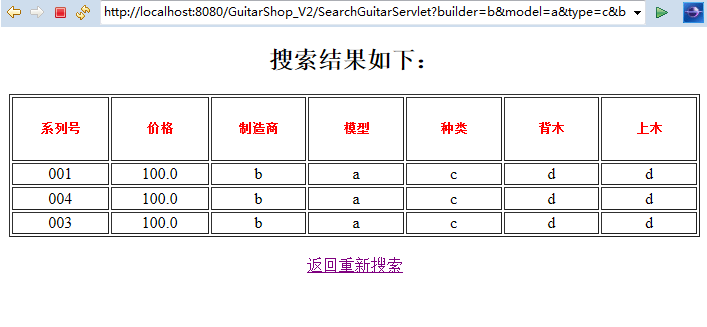
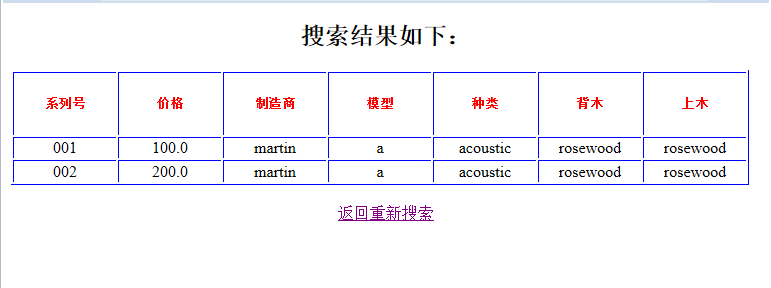
check

diff --git a/GuitarShop_V2/src/com/guitarshop_v2/test/SystemTest.java b/GuitarShop_V2/src/com/guitarshop_v2/test/SystemTest.java
@@ -37,7 +37,7 @@ public class SystemTest {
 		inventory.setGuitars(guitars);
 		Guitar tg = new Guitar();
 		GuitarSpec guitarSpec = new GuitarSpec();
-		guitarSpec.setType(type.b);
+		guitarSpec.setType(type.acoustic);
 		tg.setGuitarSpec(guitarSpec);
 		inventory.FindGuitars(tg);
 		System.out.print(inventory.FindGuitars(tg).size());

diff --git a/GuitarShop_V2/src/com/guitarshop_v2/model/builder.java b/GuitarShop_V2/src/com/guitarshop_v2/model/builder.java
@@ -1,6 +1,6 @@
 package com.guitarshop_v2.model;
 
 public enum builder {
-	a, b, c, d;
+	martin, lewis, james, paul;
 
 }

diff --git a/GuitarShop_V2/src/com/guitarshop_v2/model/wood.java b/GuitarShop_V2/src/com/guitarshop_v2/model/wood.java
@@ -1,5 +1,5 @@
 package com.guitarshop_v2.model;
 
 public enum wood {
-	a, b, c, d
+	rosewood, cocobolo, maple, sitka
 }

diff --git a/GuitarShop_V2/src/com/guitarshop_v2/model/type.java b/GuitarShop_V2/src/com/guitarshop_v2/model/type.java
@@ -1,5 +1,5 @@
 package com.guitarshop_v2.model;
 
 public enum type {
-	a, b, c, d
+	acoustic, electric;
 }
